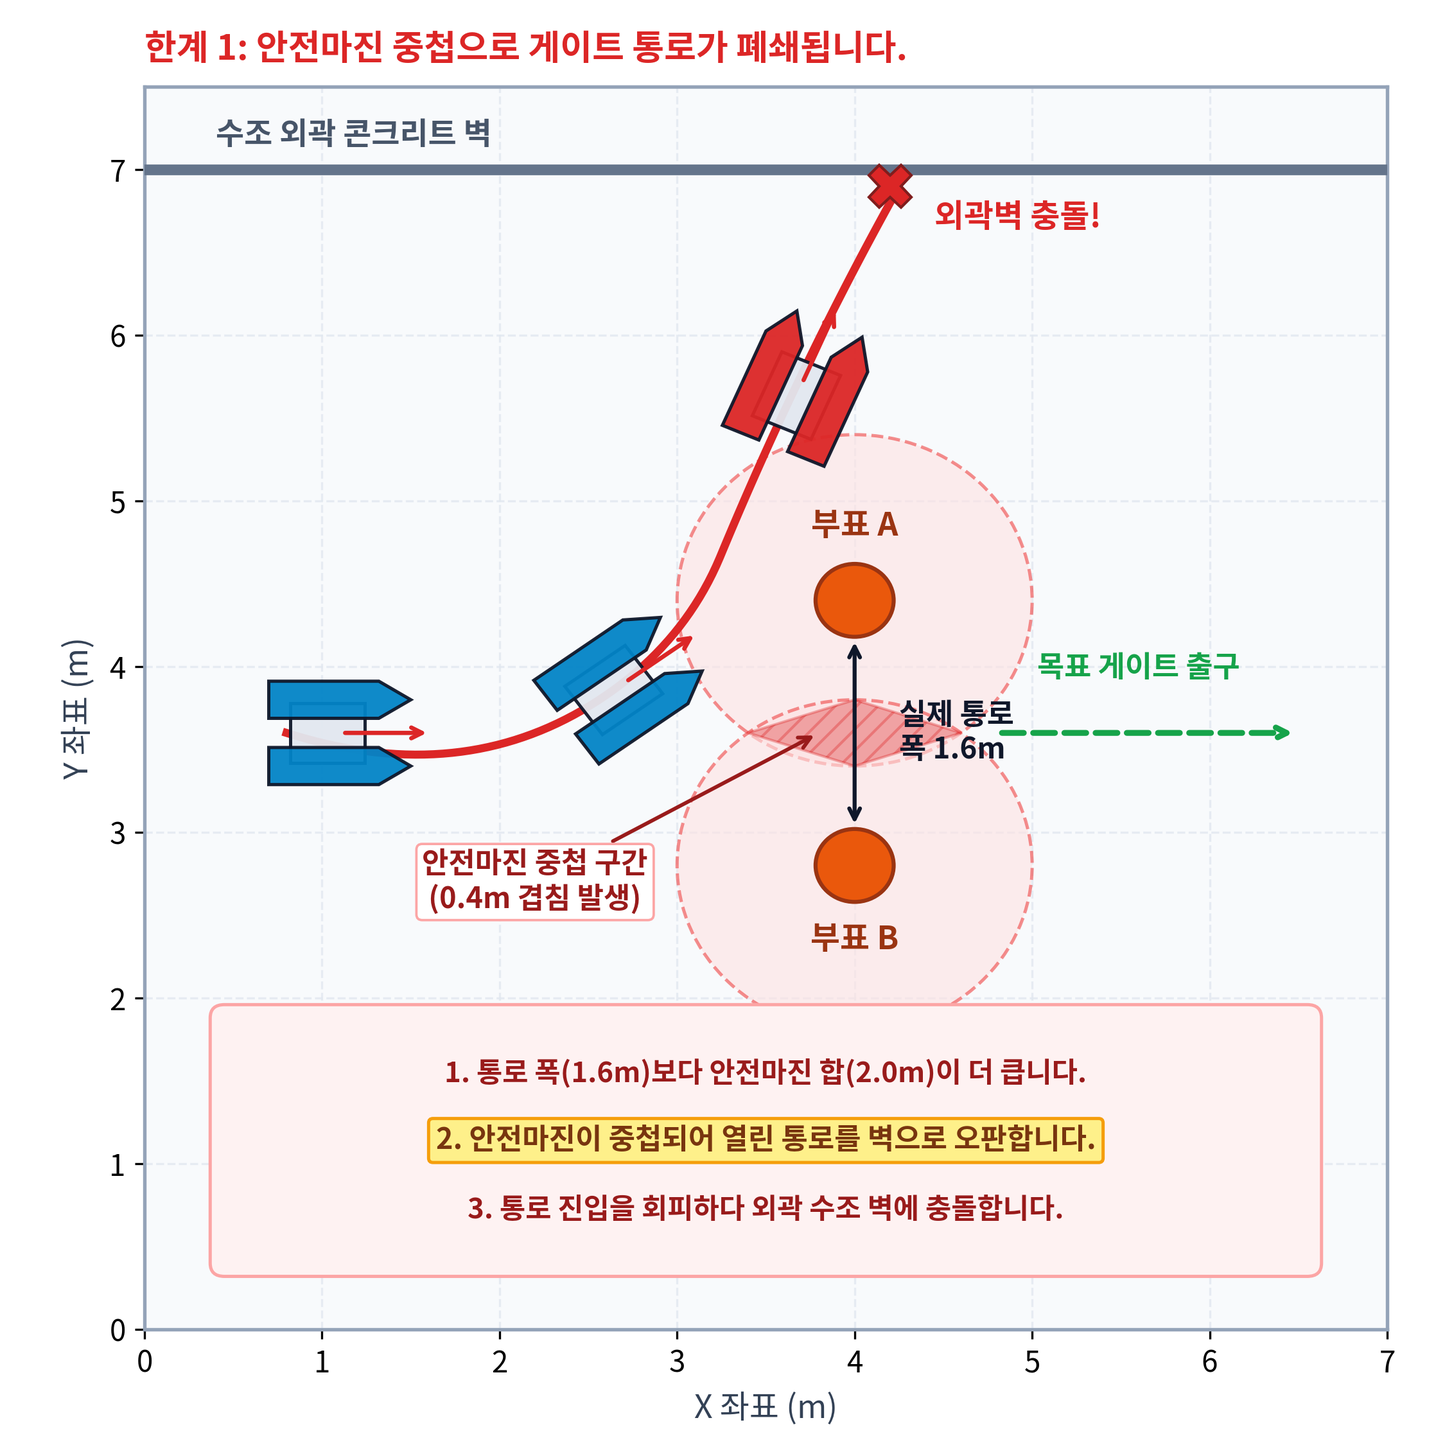
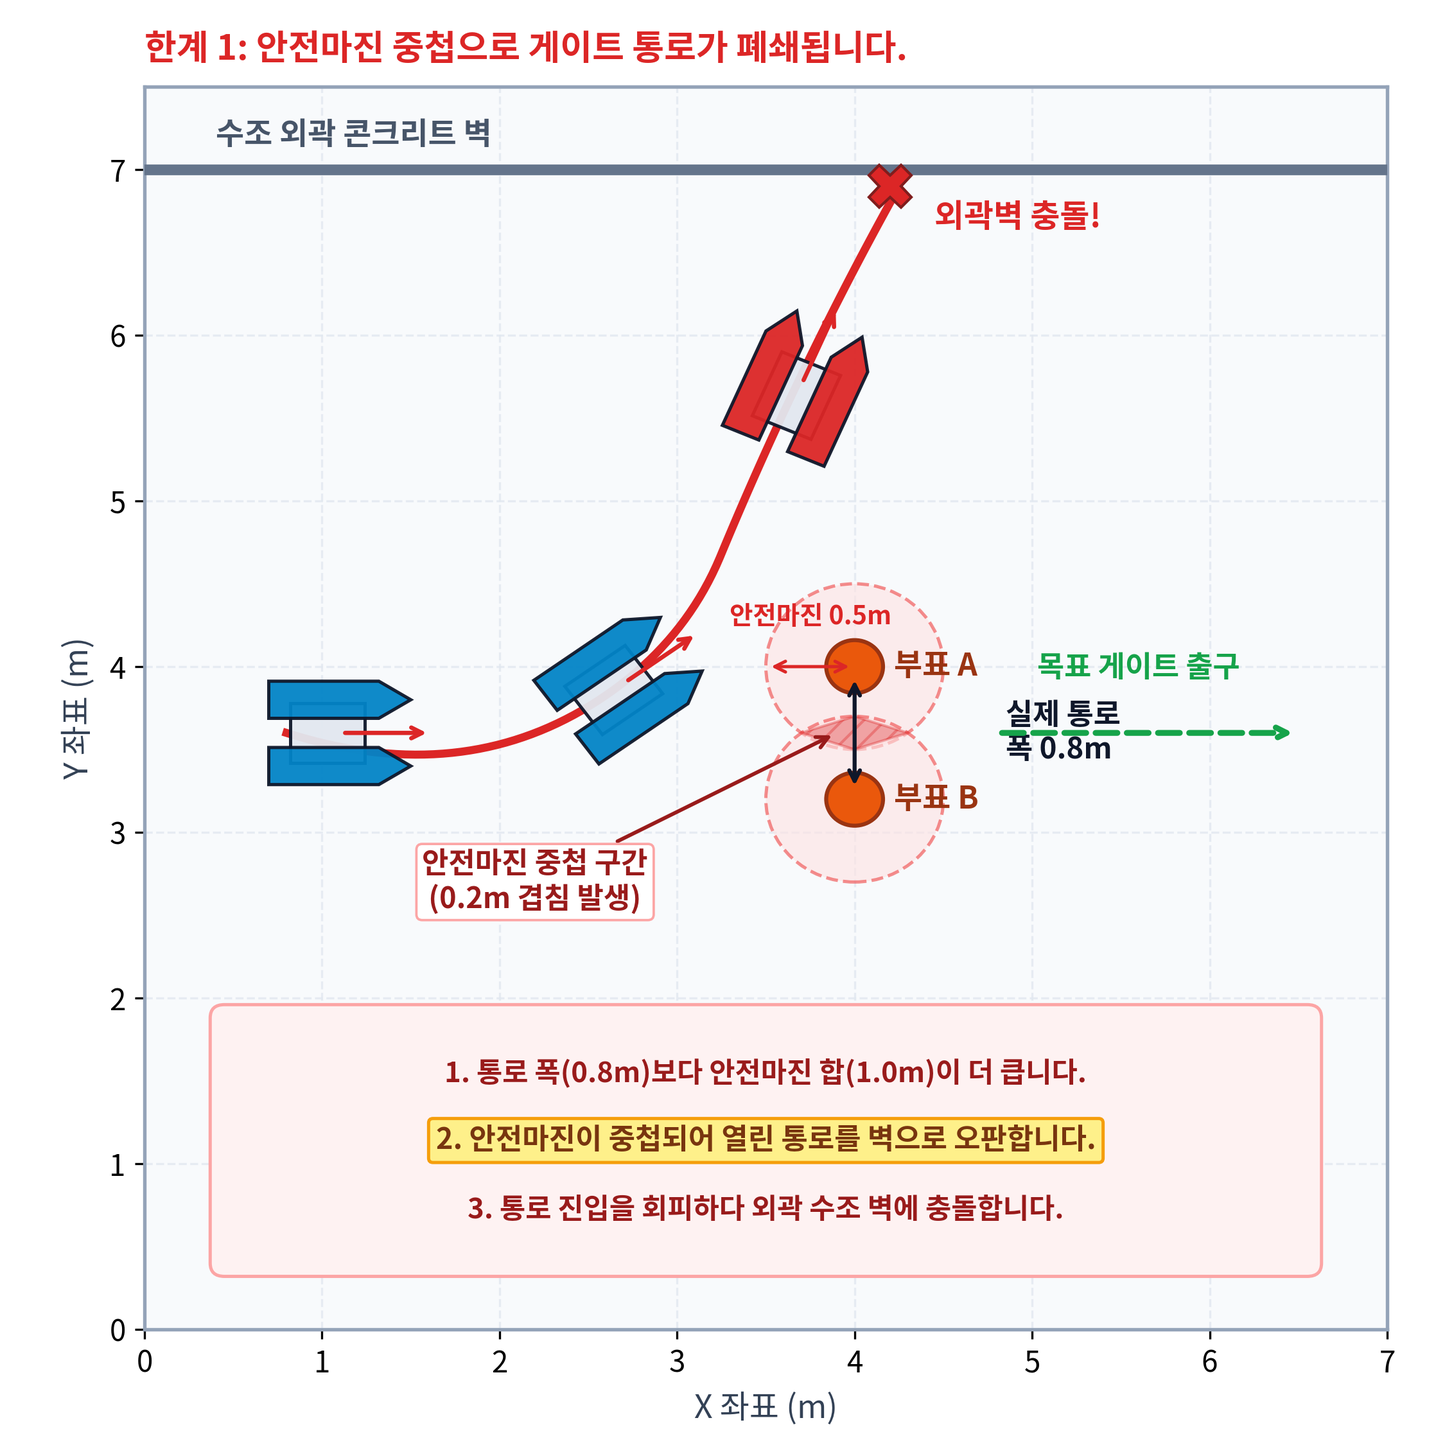
fix(sheet1): calibrate gate safety margin to 0.5m each and refine chattering boat oscillation layout

Changed region(s): [[0.4667, 0.3422, 0.7778, 0.6533], [0.4356, 0.56, 0.4667, 0.5911]]

diff --git a/report4/generate_sheet1_master.py b/report4/generate_sheet1_master.py
@@ -294,9 +294,9 @@ def generate_subfig3():
     ax3.axhline(7.0, color='#64748B', lw=4.0, zorder=5)
     ax3.text(0.4, 7.15, "수조 외곽 콘크리트 벽", fontsize=11.5, fontweight='bold', color='#475569')
     
-    b1_x, b1_y = 4.0, 4.4
-    b2_x, b2_y = 4.0, 2.8
-    margin_r = 1.0
+    b1_x, b1_y = 4.0, 4.0
+    b2_x, b2_y = 4.0, 3.2
+    margin_r = 0.5
     
     c1 = Circle((b1_x, b1_y), margin_r, fc='#FEE2E2', ec='#EF4444', lw=1.2, ls='--', alpha=0.6, zorder=2)
     c2 = Circle((b2_x, b2_y), margin_r, fc='#FEE2E2', ec='#EF4444', lw=1.2, ls='--', alpha=0.6, zorder=2)
@@ -304,22 +304,27 @@ def generate_subfig3():
     ax3.add_patch(c2)
     
     # Overlap Hatch
-    ax3.fill_between([3.4, 4.0, 4.6], [3.6, 3.8, 3.6], [3.6, 3.4, 3.6], 
+    ax3.fill_between([3.7, 4.0, 4.3], [3.6, 3.7, 3.6], [3.6, 3.5, 3.6], 
                      color='#DC2626', alpha=0.35, hatch='///', zorder=3)
     
-    ax3.add_patch(Circle((b1_x, b1_y), 0.22, fc=COLOR_WARN, ec='#9A3412', lw=1.5, zorder=8))
-    ax3.add_patch(Circle((b2_x, b2_y), 0.22, fc=COLOR_WARN, ec='#9A3412', lw=1.5, zorder=8))
-    ax3.text(b1_x, b1_y + 0.35, "부표 A", ha='center', va='bottom', fontsize=12.0, fontweight='bold', color='#9A3412')
-    ax3.text(b2_x, b2_y - 0.35, "부표 B", ha='center', va='top', fontsize=12.0, fontweight='bold', color='#9A3412')
+    ax3.add_patch(Circle((b1_x, b1_y), 0.16, fc=COLOR_WARN, ec='#9A3412', lw=1.5, zorder=8))
+    ax3.add_patch(Circle((b2_x, b2_y), 0.16, fc=COLOR_WARN, ec='#9A3412', lw=1.5, zorder=8))
+    ax3.text(b1_x + 0.22, b1_y, "부표 A", ha='left', va='center', fontsize=11.5, fontweight='bold', color='#9A3412')
+    ax3.text(b2_x + 0.22, b2_y, "부표 B", ha='left', va='center', fontsize=11.5, fontweight='bold', color='#9A3412')
     
-    ax3.annotate('안전마진 중첩 구간\n(0.4m 겹침 발생)', xy=(3.8, 3.6), xytext=(2.2, 2.7),
+    ax3.annotate('안전마진 중첩 구간\n(0.2m 겹침 발생)', xy=(3.9, 3.6), xytext=(2.2, 2.7),
                  arrowprops=dict(arrowstyle='->', color='#991B1B', lw=1.4),
                  ha='center', va='center', fontsize=10.8, fontweight='bold', color='#991B1B',
                  bbox=dict(boxstyle='round,pad=0.2', fc='#FFFFFF', ec=COLOR_DANGER_BORDER, lw=0.9), zorder=15)
     
-    ax3.annotate('', xy=(4.0, 4.18), xytext=(4.0, 3.02),
+    ax3.annotate('', xy=(4.0, 3.95), xytext=(4.0, 3.25),
                  arrowprops=dict(arrowstyle='<->', color='#0F172A', lw=1.5), zorder=10)
-    ax3.text(4.25, 3.6, "실제 통로\n폭 1.6m", ha='left', va='center', fontsize=11.0, fontweight='bold', color='#0F172A')
+    ax3.text(4.85, 3.6, "실제 통로\n폭 0.8m", ha='left', va='center', fontsize=11.0, fontweight='bold', color='#0F172A')
+
+    # Margin dimension arrow
+    ax3.annotate('', xy=(3.5, 4.0), xytext=(4.0, 4.0),
+                 arrowprops=dict(arrowstyle='<->', color='#DC2626', lw=1.2), zorder=10)
+    ax3.text(3.75, 4.22, "안전마진 0.5m", ha='center', va='bottom', fontsize=9.5, fontweight='bold', color='#DC2626')
     
     # Abort Trajectory
     pts = np.array([
@@ -347,7 +352,7 @@ def generate_subfig3():
     
     ax3.add_patch(FancyBboxPatch((0.45, 0.40), 6.10, 1.48, boxstyle="round,pad=0.08", 
                                  fc=COLOR_DANGER_BG, ec=COLOR_DANGER_BORDER, lw=1.2, zorder=24))
-    ax3.text(3.5, 1.55, "1. 통로 폭(1.6m)보다 안전마진 합(2.0m)이 더 큽니다.", 
+    ax3.text(3.5, 1.55, "1. 통로 폭(0.8m)보다 안전마진 합(1.0m)이 더 큽니다.", 
              ha='center', va='center', fontsize=10.5, color='#991B1B', fontweight='bold', zorder=25)
     ax3.text(3.5, 1.14, "2. 안전마진이 중첩되어 열린 통로를 벽으로 오판합니다.", 
              ha='center', va='center', fontsize=10.8, color='#78350F', fontweight='bold', zorder=26,
@@ -374,7 +379,7 @@ def generate_subfig4():
     ax_top = fig.add_axes([0.08, 0.52, 0.88, 0.40])
     ax_top.set_facecolor('#FFFFFF')
     ax_top.set_xlim(0.5, 9.5)
-    ax_top.set_ylim(-2.8, 2.8)
+    ax_top.set_ylim(-3.7, 3.7)
 
     for spine in ax_top.spines.values():
         spine.set_color(COLOR_BORDER_STRONG)
@@ -382,27 +387,32 @@ def generate_subfig4():
     ax_top.set_xticks([])
     ax_top.set_yticks([])
 
-    ax_top.text(5.0, 2.50, "선체 거동: 매 프레임 단순 반사 계산으로 인해 직선 주행 중 좌우 요동 발생", 
+    ax_top.text(5.0, 3.35, "선체 거동: 매 프레임 단순 반사 계산으로 인해 직선 주행 중 좌우 요동 발생", 
                 ha='center', va='top', fontsize=11.2, fontweight='bold', color=COLOR_TEXT_MAIN, zorder=30)
 
     # Nominal straight path line down center
     ax_top.plot([0.6, 9.4], [0.0, 0.0], color='#94A3B8', lw=2.0, ls=':', zorder=5)
 
-    # 11 transparent boats overlapping each other by ~50% sequentially in time!
-    boat_x_samples = np.linspace(1.2, 8.8, 11)
-    boat_headings = [np.deg2rad(28 if i % 2 == 0 else -28) for i in range(len(boat_x_samples))]
-    boat_y_samples = [0.42 if i % 2 == 0 else -0.42 for i in range(len(boat_x_samples))]
+    # Smooth sinusoidal trajectory and 11 overlapping boats oscillating along wave
+    x_fine = np.linspace(0.8, 9.2, 300)
+    A = 0.75
+    wavelength = 2.6
+    y_fine = A * np.sin(2 * np.pi * (x_fine - 0.8) / wavelength)
+    ax_top.plot(x_fine, y_fine, color='#DC2626', lw=2.0, ls='--', alpha=0.7, zorder=6)
 
-    ax_top.plot(boat_x_samples, boat_y_samples, color='#DC2626', lw=1.6, ls='--', alpha=0.65, zorder=6)
+    boat_x_samples = np.linspace(1.2, 8.8, 11)
+    boat_y_samples = A * np.sin(2 * np.pi * (boat_x_samples - 0.8) / wavelength)
+    dy_dx = A * (2 * np.pi / wavelength) * np.cos(2 * np.pi * (boat_x_samples - 0.8) / wavelength)
+    boat_headings = np.arctan2(dy_dx, 1.0)
 
     for i, (bx, by, bhd) in enumerate(zip(boat_x_samples, boat_y_samples, boat_headings)):
-        draw_boat(ax_top, bx, by, bhd, length=1.45, width=0.72, color='#38BDF8', ec='#0284C7', alpha=0.52, zorder=10 + i)
+        draw_boat(ax_top, bx, by, bhd, length=1.40, width=0.70, color='#38BDF8', ec='#0284C7', alpha=0.55, zorder=10 + i)
 
-    ax_top.text(2.0, 1.75, "좌현 반사 조타", ha='center', va='bottom', fontsize=10.5, fontweight='bold', color='#DC2626', 
+    ax_top.text(2.1, 2.30, "좌현 반사 조타", ha='center', va='center', fontsize=10.5, fontweight='bold', color='#DC2626', 
                 bbox=dict(boxstyle='round,pad=0.2', fc='#FFFFFF', ec='#FCA5A5', lw=0.9), zorder=35)
-    ax_top.text(2.7, -1.75, "우현 반사 조타", ha='center', va='top', fontsize=10.5, fontweight='bold', color='#0284C7', 
+    ax_top.text(3.4, -2.30, "우현 반사 조타", ha='center', va='center', fontsize=10.5, fontweight='bold', color='#0284C7', 
                 bbox=dict(boxstyle='round,pad=0.2', fc='#FFFFFF', ec='#93C5FD', lw=0.9), zorder=35)
-    ax_top.text(5.0, -2.50, "시간순 중첩 관찰: 단순 반사 제어를 반복하여 직선 경로에서도 좌우로 요동치며 전진합니다.", 
+    ax_top.text(5.0, -3.35, "시간순 중첩 관찰: 단순 반사 제어를 반복하여 직선 경로에서도 좌우로 요동치며 전진합니다.", 
                 ha='center', va='bottom', fontsize=10.2, fontweight='bold', color='#78350F', zorder=35,
                 bbox=dict(boxstyle='round,pad=0.22,rounding_size=0.12', fc='#FEF08A', ec='#F59E0B', lw=1.1))
 
@@ -410,8 +420,8 @@ def generate_subfig4():
     ax_bot = fig.add_axes([0.08, 0.08, 0.88, 0.38])
     ax_bot.set_facecolor(COLOR_PANEL)
     ax_bot.set_xlim(0, 10)
-    ax_bot.set_ylim(-38, 22)
-    ax_bot.set_yticks([-30, -20, -10, 0, 10])
+    ax_bot.set_ylim(-36, 18)
+    ax_bot.set_yticks([-10, 0, 10])
 
     ax_bot.grid(True, color='#E2E8F0', ls='--', lw=0.8, alpha=0.8)
     for spine in ax_bot.spines.values():
@@ -423,25 +433,24 @@ def generate_subfig4():
     ax_bot.tick_params(labelsize=10.5)
 
     t = np.linspace(0, 10, 500)
-    chatter = 12.0 * np.sin(2 * np.pi * 4.5 * t) + 2.5 * np.sin(2 * np.pi * 1.2 * t) + np.random.normal(0, 0.4, len(t))
-    chatter = np.clip(chatter, -16, 16) - 5.0
+    chatter = np.clip(10.0 * np.sin(2 * np.pi * 4.5 * t) + np.random.normal(0, 0.4, len(t)), -11, 11)
 
     ax_bot.plot(t, chatter, color='#DC2626', lw=1.2, zorder=4)
-    ax_bot.axhline(-5, color='#64748B', lw=1.0, ls='--', zorder=2)
+    ax_bot.axhline(0, color='#64748B', lw=1.0, ls='--', zorder=2)
 
-    ax_bot.annotate('매 제어 주기마다 즉각 반사 조타 (좌우 고주파 진동)', xy=(2.5, 10), xytext=(2.5, 14),
+    ax_bot.annotate('매 제어 주기마다 즉각 반사 조타 (좌우 고주파 진동)', xy=(3.5, 10), xytext=(3.5, 14),
                     ha='center', va='bottom',
                     fontsize=10.2, fontweight='bold', color='#B91C1C',
                     bbox=dict(boxstyle='round,pad=0.2', fc='#FFFFFF', ec=COLOR_DANGER_BORDER, lw=0.9), zorder=20)
 
-    ax_bot.add_patch(FancyBboxPatch((0.5, -36.5), 9.0, 17.0, boxstyle="round,pad=0.5", 
+    ax_bot.add_patch(FancyBboxPatch((0.5, -34.5), 9.0, 16.5, boxstyle="round,pad=0.4", 
                                     fc=COLOR_DANGER_BG, ec=COLOR_DANGER_BORDER, lw=1.2, zorder=24))
-    ax_bot.text(5.0, -23.0, "1. 매 제어 프레임마다 단순 반사 규칙을 반복 계산하여 조타합니다.", 
+    ax_bot.text(5.0, -21.5, "1. 매 제어 프레임마다 단순 반사 규칙을 반복 계산하여 조타합니다.", 
                 ha='center', va='center', fontsize=10.2, color='#991B1B', fontweight='bold', zorder=25)
-    ax_bot.text(5.0, -28.0, "2. 상태 제어나 완충 없이 즉각 반응하므로 좌우로 심하게 진동합니다.", 
+    ax_bot.text(5.0, -26.5, "2. 상태 제어나 완충 없이 즉각 반응하므로 좌우로 심하게 진동합니다.", 
                 ha='center', va='center', fontsize=10.5, color='#78350F', fontweight='bold', zorder=26,
                 bbox=dict(boxstyle='round,pad=0.25,rounding_size=0.15', fc='#FEF08A', ec='#F59E0B', lw=1.2))
-    ax_bot.text(5.0, -33.0, "3. 진동으로 인해 조타 구동부가 마모되고 전진 추진 효율이 저하됩니다.", 
+    ax_bot.text(5.0, -31.5, "3. 진동으로 인해 조타 구동부가 마모되고 전진 추진 효율이 저하됩니다.", 
                 ha='center', va='center', fontsize=10.2, color='#991B1B', fontweight='bold', zorder=25)
 
     out_path = os.path.join(SUBFIG_DIR, 'subfig4_violent_chattering_overlapping_boats.png')
@@ -787,9 +796,9 @@ def generate_sheet_1():
     ax3.axhline(7.0, color='#64748B', lw=4.0, zorder=5)
     ax3.text(0.4, 7.15, "수조 외곽 콘크리트 벽", fontsize=10.8, fontweight='bold', color='#475569')
     
-    b1_x, b1_y = 4.0, 4.4
-    b2_x, b2_y = 4.0, 2.8
-    margin_r = 1.0
+    b1_x, b1_y = 4.0, 4.0
+    b2_x, b2_y = 4.0, 3.2
+    margin_r = 0.5
     
     c1 = Circle((b1_x, b1_y), margin_r, fc='#FEE2E2', ec='#EF4444', lw=1.2, ls='--', alpha=0.6, zorder=2)
     c2 = Circle((b2_x, b2_y), margin_r, fc='#FEE2E2', ec='#EF4444', lw=1.2, ls='--', alpha=0.6, zorder=2)
@@ -797,22 +806,27 @@ def generate_sheet_1():
     ax3.add_patch(c2)
     
     # Overlap Hatch
-    ax3.fill_between([3.4, 4.0, 4.6], [3.6, 3.8, 3.6], [3.6, 3.4, 3.6], 
+    ax3.fill_between([3.7, 4.0, 4.3], [3.6, 3.7, 3.6], [3.6, 3.5, 3.6], 
                      color='#DC2626', alpha=0.35, hatch='///', zorder=3)
     
-    ax3.add_patch(Circle((b1_x, b1_y), 0.22, fc=COLOR_WARN, ec='#9A3412', lw=1.5, zorder=8))
-    ax3.add_patch(Circle((b2_x, b2_y), 0.22, fc=COLOR_WARN, ec='#9A3412', lw=1.5, zorder=8))
-    ax3.text(b1_x, b1_y + 0.35, "부표 A", ha='center', va='bottom', fontsize=11.2, fontweight='bold', color='#9A3412')
-    ax3.text(b2_x, b2_y - 0.35, "부표 B", ha='center', va='top', fontsize=11.2, fontweight='bold', color='#9A3412')
+    ax3.add_patch(Circle((b1_x, b1_y), 0.16, fc=COLOR_WARN, ec='#9A3412', lw=1.5, zorder=8))
+    ax3.add_patch(Circle((b2_x, b2_y), 0.16, fc=COLOR_WARN, ec='#9A3412', lw=1.5, zorder=8))
+    ax3.text(b1_x + 0.22, b1_y, "부표 A", ha='left', va='center', fontsize=11.2, fontweight='bold', color='#9A3412')
+    ax3.text(b2_x + 0.22, b2_y, "부표 B", ha='left', va='center', fontsize=11.2, fontweight='bold', color='#9A3412')
     
-    ax3.annotate('안전마진 중첩 구간\n(0.4m 겹침 발생)', xy=(3.8, 3.6), xytext=(2.2, 2.7),
+    ax3.annotate('안전마진 중첩 구간\n(0.2m 겹침 발생)', xy=(3.9, 3.6), xytext=(2.2, 2.7),
                  arrowprops=dict(arrowstyle='->', color='#991B1B', lw=1.4),
                  ha='center', va='center', fontsize=9.8, fontweight='bold', color='#991B1B',
                  bbox=dict(boxstyle='round,pad=0.2', fc='#FFFFFF', ec=COLOR_DANGER_BORDER, lw=0.9), zorder=15)
     
-    ax3.annotate('', xy=(4.0, 4.18), xytext=(4.0, 3.02),
+    ax3.annotate('', xy=(4.0, 3.95), xytext=(4.0, 3.25),
                  arrowprops=dict(arrowstyle='<->', color='#0F172A', lw=1.5), zorder=10)
-    ax3.text(4.25, 3.6, "실제 통로\n폭 1.6m", ha='left', va='center', fontsize=10.2, fontweight='bold', color='#0F172A')
+    ax3.text(4.85, 3.6, "실제 통로\n폭 0.8m", ha='left', va='center', fontsize=10.2, fontweight='bold', color='#0F172A')
+
+    # Margin dimension arrow
+    ax3.annotate('', xy=(3.5, 4.0), xytext=(4.0, 4.0),
+                 arrowprops=dict(arrowstyle='<->', color='#DC2626', lw=1.2), zorder=10)
+    ax3.text(3.75, 4.22, "안전마진 0.5m", ha='center', va='bottom', fontsize=9.2, fontweight='bold', color='#DC2626')
     
     # Abort Trajectory
     pts = np.array([
@@ -840,7 +854,7 @@ def generate_sheet_1():
     
     ax3.add_patch(FancyBboxPatch((0.45, 0.40), 6.10, 1.48, boxstyle="round,pad=0.08", 
                                  fc=COLOR_DANGER_BG, ec=COLOR_DANGER_BORDER, lw=1.2, zorder=24))
-    ax3.text(3.5, 1.55, "1. 통로 폭(1.6m)보다 안전마진 합(2.0m)이 더 큽니다.", 
+    ax3.text(3.5, 1.55, "1. 통로 폭(0.8m)보다 안전마진 합(1.0m)이 더 큽니다.", 
              ha='center', va='center', fontsize=9.8, color='#991B1B', fontweight='bold', zorder=25)
     ax3.text(3.5, 1.14, "2. 안전마진이 중첩되어 열린 통로를 벽으로 오판합니다.", 
              ha='center', va='center', fontsize=10.2, color='#78350F', fontweight='bold', zorder=26,
@@ -852,11 +866,11 @@ def generate_sheet_1():
     # SUBPLOT 4: 한계 2 - 극심한 진동과 선체 불안정성 (left: 0.347, width: 0.304)
     # Divided cleanly into ax4_top (boats motion) and ax4_bot (rudder graph)
     # --------------------------------------------------------------------------
-    # Top Card: 11 semi-transparent boats overlapping each other by ~50%
+    # Top Card: 11 semi-transparent boats oscillating along sinusoidal wave
     ax4_top = fig.add_axes([0.347, 0.256, 0.304, 0.176])
     ax4_top.set_facecolor('#FFFFFF')
     ax4_top.set_xlim(0.5, 9.5)
-    ax4_top.set_ylim(-2.8, 2.8)
+    ax4_top.set_ylim(-3.7, 3.7)
 
     for spine in ax4_top.spines.values():
         spine.set_color(COLOR_BORDER_STRONG)
@@ -867,26 +881,32 @@ def generate_sheet_1():
     ax4_top.set_title("한계 2: 매 프레임 단순 반사 계산의 반복으로 선체가 좌우로 진동합니다.", 
                       fontsize=11.8, fontweight='bold', pad=7, color=COLOR_DANGER, loc='left')
 
-    ax4_top.text(5.0, 2.45, "선체 거동: 매 프레임 단순 반사 계산으로 인해 직선 주행 중 좌우 요동 발생", 
+    ax4_top.text(5.0, 3.35, "선체 거동: 매 프레임 단순 반사 계산으로 인해 직선 주행 중 좌우 요동 발생", 
                  ha='center', va='top', fontsize=10.2, fontweight='bold', color=COLOR_TEXT_MAIN, zorder=30)
 
     # Nominal straight line
     ax4_top.plot([0.6, 9.4], [0.0, 0.0], color='#94A3B8', lw=2.0, ls=':', zorder=5)
 
-    boat_x_samples = np.linspace(1.2, 8.8, 11)
-    boat_headings = [np.deg2rad(28 if i % 2 == 0 else -28) for i in range(len(boat_x_samples))]
-    boat_y_samples = [0.42 if i % 2 == 0 else -0.42 for i in range(len(boat_x_samples))]
+    # Smooth sinusoidal trajectory and 11 overlapping boats oscillating along wave
+    x_fine = np.linspace(0.8, 9.2, 300)
+    A = 0.75
+    wavelength = 2.6
+    y_fine = A * np.sin(2 * np.pi * (x_fine - 0.8) / wavelength)
+    ax4_top.plot(x_fine, y_fine, color='#DC2626', lw=2.0, ls='--', alpha=0.7, zorder=6)
 
-    ax4_top.plot(boat_x_samples, boat_y_samples, color='#DC2626', lw=1.6, ls='--', alpha=0.65, zorder=6)
+    boat_x_samples = np.linspace(1.2, 8.8, 11)
+    boat_y_samples = A * np.sin(2 * np.pi * (boat_x_samples - 0.8) / wavelength)
+    dy_dx = A * (2 * np.pi / wavelength) * np.cos(2 * np.pi * (boat_x_samples - 0.8) / wavelength)
+    boat_headings = np.arctan2(dy_dx, 1.0)
 
     for i, (bx, by, bhd) in enumerate(zip(boat_x_samples, boat_y_samples, boat_headings)):
-        draw_boat(ax4_top, bx, by, bhd, length=1.45, width=0.72, color='#38BDF8', ec='#0284C7', alpha=0.52, zorder=10 + i)
+        draw_boat(ax4_top, bx, by, bhd, length=1.40, width=0.70, color='#38BDF8', ec='#0284C7', alpha=0.55, zorder=10 + i)
 
-    ax4_top.text(2.0, 1.70, "좌현 반사 조타", ha='center', va='bottom', fontsize=9.6, fontweight='bold', color='#DC2626', 
+    ax4_top.text(2.1, 2.30, "좌현 반사 조타", ha='center', va='center', fontsize=9.6, fontweight='bold', color='#DC2626', 
                  bbox=dict(boxstyle='round,pad=0.2', fc='#FFFFFF', ec='#FCA5A5', lw=0.9), zorder=35)
-    ax4_top.text(2.7, -1.70, "우현 반사 조타", ha='center', va='top', fontsize=9.6, fontweight='bold', color='#0284C7', 
+    ax4_top.text(3.4, -2.30, "우현 반사 조타", ha='center', va='center', fontsize=9.6, fontweight='bold', color='#0284C7', 
                  bbox=dict(boxstyle='round,pad=0.2', fc='#FFFFFF', ec='#93C5FD', lw=0.9), zorder=35)
-    ax4_top.text(5.0, -2.48, "시간순 중첩 관찰: 단순 반사 제어를 반복하여 직선 경로에서도 좌우로 요동치며 전진합니다.", 
+    ax4_top.text(5.0, -3.35, "시간순 중첩 관찰: 단순 반사 제어를 반복하여 직선 경로에서도 좌우로 요동치며 전진합니다.", 
                  ha='center', va='bottom', fontsize=9.5, fontweight='bold', color='#78350F', zorder=35,
                  bbox=dict(boxstyle='round,pad=0.20,rounding_size=0.12', fc='#FEF08A', ec='#F59E0B', lw=1.1))
 
@@ -894,8 +914,8 @@ def generate_sheet_1():
     ax4_bot = fig.add_axes([0.347, 0.050, 0.304, 0.172])
     ax4_bot.set_facecolor(COLOR_PANEL)
     ax4_bot.set_xlim(0, 10)
-    ax4_bot.set_ylim(-38, 22)
-    ax4_bot.set_yticks([-30, -20, -10, 0, 10])
+    ax4_bot.set_ylim(-36, 18)
+    ax4_bot.set_yticks([-10, 0, 10])
 
     ax4_bot.grid(True, color='#E2E8F0', ls='--', lw=0.8, alpha=0.8)
     for spine in ax4_bot.spines.values():
@@ -907,25 +927,24 @@ def generate_sheet_1():
     ax4_bot.tick_params(labelsize=9.8)
 
     t = np.linspace(0, 10, 500)
-    chatter = 12.0 * np.sin(2 * np.pi * 4.5 * t) + 2.5 * np.sin(2 * np.pi * 1.2 * t) + np.random.normal(0, 0.4, len(t))
-    chatter = np.clip(chatter, -16, 16) - 5.0
+    chatter = np.clip(10.0 * np.sin(2 * np.pi * 4.5 * t) + np.random.normal(0, 0.4, len(t)), -11, 11)
 
     ax4_bot.plot(t, chatter, color='#DC2626', lw=1.2, zorder=4)
-    ax4_bot.axhline(-5, color='#64748B', lw=1.0, ls='--', zorder=2)
+    ax4_bot.axhline(0, color='#64748B', lw=1.0, ls='--', zorder=2)
 
-    ax4_bot.annotate('매 제어 주기마다 즉각 반사 조타 (좌우 고주파 진동)', xy=(2.5, 10), xytext=(2.5, 14),
+    ax4_bot.annotate('매 제어 주기마다 즉각 반사 조타 (좌우 고주파 진동)', xy=(3.5, 10), xytext=(3.5, 14),
                      ha='center', va='bottom',
                      fontsize=9.5, fontweight='bold', color='#B91C1C',
                      bbox=dict(boxstyle='round,pad=0.2', fc='#FFFFFF', ec=COLOR_DANGER_BORDER, lw=0.9), zorder=20)
 
-    ax4_bot.add_patch(FancyBboxPatch((0.5, -36.5), 9.0, 17.0, boxstyle="round,pad=0.5", 
+    ax4_bot.add_patch(FancyBboxPatch((0.5, -34.5), 9.0, 16.5, boxstyle="round,pad=0.4", 
                                      fc=COLOR_DANGER_BG, ec=COLOR_DANGER_BORDER, lw=1.2, zorder=24))
-    ax4_bot.text(5.0, -23.0, "1. 매 제어 프레임마다 단순 반사 규칙을 반복 계산하여 조타합니다.", 
+    ax4_bot.text(5.0, -21.5, "1. 매 제어 프레임마다 단순 반사 규칙을 반복 계산하여 조타합니다.", 
                  ha='center', va='center', fontsize=9.6, color='#991B1B', fontweight='bold', zorder=25)
-    ax4_bot.text(5.0, -28.0, "2. 상태 제어나 완충 없이 즉각 반응하므로 좌우로 심하게 진동합니다.", 
+    ax4_bot.text(5.0, -26.5, "2. 상태 제어나 완충 없이 즉각 반응하므로 좌우로 심하게 진동합니다.", 
                  ha='center', va='center', fontsize=9.8, color='#78350F', fontweight='bold', zorder=26,
                  bbox=dict(boxstyle='round,pad=0.22,rounding_size=0.15', fc='#FEF08A', ec='#F59E0B', lw=1.2))
-    ax4_bot.text(5.0, -33.0, "3. 진동으로 인해 조타 구동부가 마모되고 전진 추진 효율이 저하됩니다.", 
+    ax4_bot.text(5.0, -31.5, "3. 진동으로 인해 조타 구동부가 마모되고 전진 추진 효율이 저하됩니다.", 
                  ha='center', va='center', fontsize=9.6, color='#991B1B', fontweight='bold', zorder=25)
 
     # --------------------------------------------------------------------------
